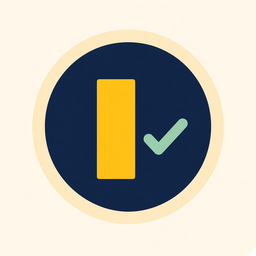
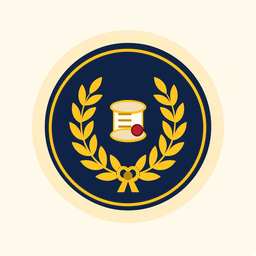
Первая заявка — журнал или конкурс, «Контракт» с лавром (#106)
* Первая заявка — журнал или конкурс, «Контракт» с лавровым венком.

Подсказка и выдача «Первой заявки» не задевают издательство. Уже выданные значки остаются.

* Значок «Контракт» на том же тёмном круге, что и «Публикация».

Венок, двойной золотой обод, лента снизу и свиток с печатью в центре.

* Значок «Контракт»: тот же венок, тонкий обод, бант и короткий свиток.

Ветви и синий диск взяты из «Публикации» без зерна. Свиток стоит в просвете и не касается листьев.

---------

Changed region(s): [[0.25, 0.2812, 0.75, 0.75], [0.1875, 0.1562, 0.8125, 0.875], [0.5938, 0.8438, 0.625, 0.875]]

diff --git a/src/features/badges/backfill.test.ts b/src/features/badges/backfill.test.ts
@@ -7,11 +7,13 @@ import { BADGES } from "./catalogue";
 const schemaSql = fs.readFileSync("docs/sql/2026-10-26-5-badges.sql", "utf8");
 const backfillSql = fs.readFileSync("docs/sql/2026-10-26-6-badge-backfill.sql", "utf8");
 const publisherSql = fs.readFileSync("docs/sql/2026-10-26-7-publisher-accepted.sql", "utf8");
+const firstEntrySql = fs.readFileSync("docs/sql/2026-10-26-8-first-entry-hint.sql", "utf8");
 
 test("файлы значков только добавляют и идут после серии", () => {
   assert.equal(findDestructive(schemaSql).length, 0);
   assert.equal(findDestructive(backfillSql).length, 0);
   assert.equal(findDestructive(publisherSql).length, 0);
+  assert.equal(findDestructive(firstEntrySql).length, 0);
   const names = sortSqlNames([
     "2026-10-26-7-publisher-accepted.sql",
     "2026-10-26-4-streak-backfill.sql",
@@ -45,6 +47,10 @@ test("справочник в одном файле, выдача прошлых
   assert.match(publisherSql, /title = 'Публикация'/);
   assert.match(publisherSql, /title = 'Контракт'/);
   assert.equal(publisherSql.includes("DELETE"), false);
+  assert.match(firstEntrySql, /id = 'first-entry'/);
+  assert.match(firstEntrySql, /Отправьте первую заявку в журнал или на конкурс/);
+  assert.equal(firstEntrySql.includes("DELETE"), false);
+  assert.equal(firstEntrySql.includes("BadgeAward"), false);
   assert.equal(backfillSql.includes("ten-thousand"), false);
   assert.equal(backfillSql.includes("second-draft"), false);
   for (const id of ["first-chapter", "spark", "candle", "lighthouse", "level-5", "level-150", "book-done"]) {

diff --git a/src/features/badges/rules.test.ts b/src/features/badges/rules.test.ts
@@ -95,6 +95,9 @@ test("журнал остаётся конкурсом, издательство
   assert.equal(publisher.section, "contest");
   assert.equal(contest.title, "Публикация");
   assert.equal(publisher.title, "Контракт");
+  const entry = BADGES.find((badge) => badge.id === "first-entry");
+  assert.ok(entry);
+  assert.equal(hintFor(entry), "Отправьте первую заявку в журнал или на конкурс.");
   assert.equal(hintFor(contest), "Получите публикацию в журнале или победу на конкурсе.");
   assert.equal(hintFor(publisher), "Получите контракт с издательством.");
 
@@ -104,10 +107,18 @@ test("журнал остаётся конкурсом, издательство
   assert.ok(journalIds.includes("contest-yes"));
   assert.equal(journalIds.includes("publisher-yes"), false);
 
+  const journalSent = emptyBadgeFacts();
+  journalSent.contestSent = true;
+  const journalSentIds = autoBadgeIds(journalSent);
+  assert.ok(journalSentIds.includes("first-entry"));
+  assert.equal(journalSentIds.includes("publisher"), false);
+
   const sent = emptyBadgeFacts();
   sent.publisherSent = true;
-  assert.ok(autoBadgeIds(sent).includes("publisher"));
-  assert.equal(autoBadgeIds(sent).includes("publisher-yes"), false);
+  const sentIds = autoBadgeIds(sent);
+  assert.ok(sentIds.includes("publisher"));
+  assert.equal(sentIds.includes("first-entry"), false);
+  assert.equal(sentIds.includes("publisher-yes"), false);
 
   const accepted = emptyBadgeFacts();
   accepted.publisherSent = true;

diff --git a/src/features/badges/sync.ts b/src/features/badges/sync.ts
@@ -47,7 +47,8 @@ export async function loadBadgeFacts(studentId: string): Promise<BadgeFacts> {
   facts.bookComplete = stars.some(
     (row) => row.sourceId === BOOK_COMPLETE_SOURCE_ID || row.note === BOOK_COMPLETE_NOTE,
   );
-  facts.contestSent = submissions.some((row) => row.type === "CONTEST" && row.status === "SENT");
+  // Ушедшая заявка: любой статус, кроме «не отправлено». Издательство считается отдельно.
+  facts.contestSent = submissions.some((row) => row.type === "CONTEST" && row.status !== "NOT_SENT");
   facts.contestRejected = submissions.some((row) => row.type === "CONTEST" && row.status === "REJECTED");
   facts.contestAccepted = submissions.some((row) => row.type === "CONTEST" && row.status === "ACCEPTED");
   facts.publisherSent = submissions.some((row) => row.type === "PUBLISHER" && row.status !== "NOT_SENT");

diff --git a/src/features/badges/rules.ts b/src/features/badges/rules.ts
@@ -104,6 +104,7 @@ export function autoBadgeIds(facts: BadgeFacts): string[] {
   want("ten-tasks", facts.submittedTasks >= 10);
   want("book-done", facts.bookComplete);
   for (const id of methodicalBadgeIdsForTitles(facts.acceptedTaskTitles)) want(id, true);
+  // Журнал идёт как конкурс. Заявка в издательство даёт «В издательстве», не этот значок.
   want("first-entry", facts.contestSent);
   want("first-no", facts.contestRejected);
   want("contest-yes", facts.contestAccepted);

diff --git a/src/features/badges/catalogue.ts b/src/features/badges/catalogue.ts
@@ -161,7 +161,7 @@ export const BADGES: BadgeDef[] = [
     sortOrder: 200,
     auto: true,
     image: "/badges/first-entry.png",
-    ...same("Отправьте первую заявку на конкурс."),
+    ...same("Отправьте первую заявку в журнал или на конкурс."),
   },
   {
     id: "first-no",
